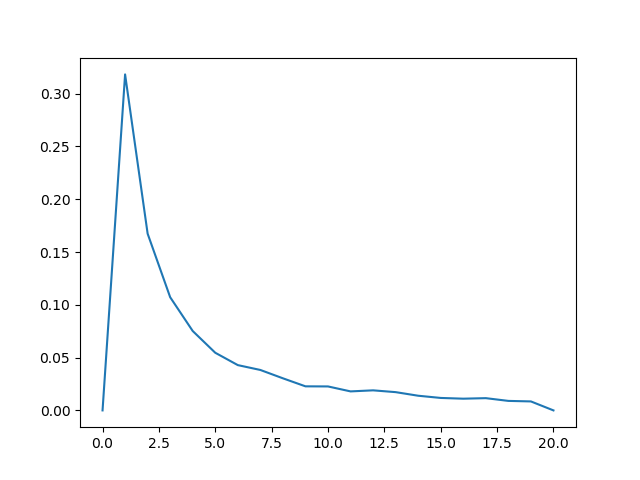
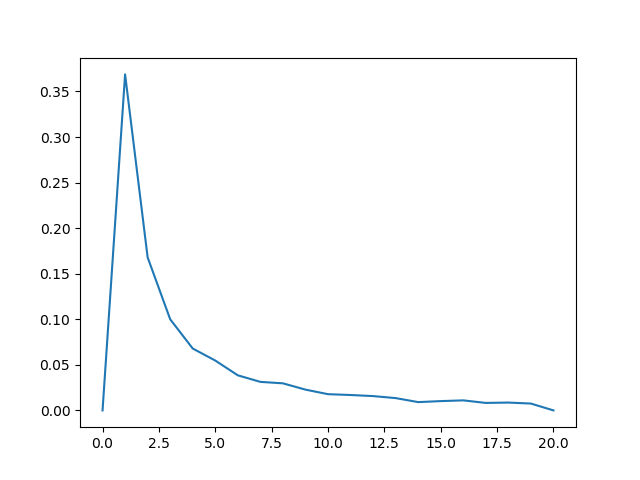
make LK

diff --git a/tsp/LK/LK.py b/tsp/LK/LK.py
@@ -16,6 +16,11 @@ set_l = 0
 y1 = 0
 y2 = 0
 
+o_length = 0
+sumInc = 0
+alpha = 5
+Bgn = [0] * alpha
+
 class Individual(object):
     def __init__(self,size):
         self.root = np.arange(size)
@@ -181,6 +186,88 @@ def levy(m,t,move):
         if(x <= move and x >= 1):
             return int(x)
 
+def LK(ind,size,dist):
+    global alpha
+    global o_length
+    global Bgn
+    global sumInc
+    i = 0
+    restricted = np.zeros(size,dtype = int)
+    copy_root = copy.deepcopy(np.insert(ind.root,len(ind.root),ind.root).tolist())
+    l_root = ind.root.tolist()
+    while(1):
+        if(i >= size):
+            break
+        i += 1
+        Bgn[0] = (Bgn[0] + 1) % size
+        ind.calc_root(dist)
+        o_length = ind.total_cost
+        sumInc = 0
+        if(i%100 == 0):
+            print("i0 = {0}; i = {1}: {2},\r".format(Bgn[0],i,o_length))
+
+        pathin = copy.deepcopy(copy_root[Bgn[0]:(Bgn[0]+size)])
+        if(improvedPath(pathin, size, 1, restricted, l_root, dist)):
+            i = 0
+        ind.root = np.array(l_root)
+
+def improvedPath(path, n, depth, restricted, pathout, dist):
+    global alpha
+    global o_length
+    global Bgn
+    global sumInc
+    gmin = (o_length * (-1)) / n / 4 if n >= 10000 else (o_length * (-1)) / n / 2 
+    if(depth < alpha):
+        for j in range(n):
+            i = (j + Bgn[depth]) % (n-1)
+            nid = path[i]
+            if(not restricted[nid]):
+                g = dist[path[i]][path[i+1]] - dist[path[n-1]][path[i]]
+                if(g > gmin):
+                    sumInc += dist[path[i+1]][path[0]] - dist[path[n-1]][path[0]] - g 
+                    path = Reverse(path,i+1,n-1)
+                    if(sumInc < 0):
+                        pathout[:] = path[:]
+                        print("{0}#{1},\t\t\t \r".format(depth,(o_length + sumInc)))
+                        return 1
+                    restricted[nid] = 1
+                    fimp = improvedPath(path, n, depth+1, restricted, pathout, dist)
+                    restricted[nid] = 0
+                    if(fimp):
+                        return 1
+            Bgn[depth] = (Bgn[depth] + 1) % (n-1)
+    else:
+        i = 0
+        g = -2147483648
+        for j in range(n-1):
+            h = dist[path[j]][path[j+1]] - dist[path[n-1]][path[j]]
+            if(h > g):
+                g = h
+                i = j
+        if(g > 0):
+            nid = path[i]
+            sumInc += dist[path[i+1]][path[0]] - dist[path[n-1]][path[0]] - g
+            path = Reverse(path,i+1,n-1)
+            if(sumInc < 0):
+                pathout[:] = path[:]
+                print("{0}${1},\r".format(depth,o_length + sumInc))
+                return 1
+            restricted[nid] = 1
+            fimp = improvedPath(path, n, depth+1, restricted, pathout, dist)
+            restricted[nid] = 0
+            if(fimp):
+                return 1
+    return 0
+
+def Reverse(path, b, e):
+    while(b < e):
+        tmp = path[b]
+        path[b] = path[e]
+        path[e] = tmp
+        b += 1
+        e -= 1
+    return path
+
 def main():
     start = time.time()
     start_p_m = 0.4       #突然変異率
@@ -190,7 +277,7 @@ def main():
     
     m_f = True #False ⇒ levy  True ⇒ GA
 
-    tsp_f = "att532"
+    tsp_f = "st70"
 
     input_f = r"C:\Users\imada\Desktop\Research\tsp\\" + tsp_f +".txt" 
     tsp_data = open(input_f,"r")
@@ -224,68 +311,8 @@ def main():
     c_score = min(w)
     prev_score = min(w)
     start_score = min(w)
-    
-    for g in range(NGEN):
-        g_start = time.time()
-        #if(g == 60000):
-            #m_f = not m_f
-        if(g % 20000 == 0):
-            p_m -= 0.05
-            p_ml -= 0.05
-            #if(g <= 60000):
-             #   p_m -= 0.05
-            #else:
-             #   p_ml -= 0.05
-        if(prev_score <= c_score):
-            e_count += 1
-            if(e_count == 2000):
-                m_f = not m_f
-                e_count = 0
-                start_score = prev_score
-        else:
-            prev_score = c_score
-            if(m_f and start_score > c_score):
-                m_f = not m_f
-            e_count = 0
 
-        print("-------第{0}世代-------".format(g))
-        for i in range(len(pop)):
-            w[i] = pop[i].total_cost
-
-        print("Max:{0}\nMin:{1}\nave:{2}\nBest root:{3}\ne_count:{4}".format(max(w),min(w),sum(w) / 100,pop[np.argmin(w)].root,e_count))
-        plot_data[g] = min(w)
-
-        pop = roulette_choice1(pop,w)
-        pop = cross(pop,size,p_c)
-        if(m_f):
-            pop = mutate(pop,size,p_m)
-        elif(not m_f):
-            pop = mutate_l(pop,size,p_ml,move)
-        calc_fit(pop,dist)
-        c_score = min(w)
-        g_end = time.time()
-        print("remaining time{0}".format((g_end - g_start) * (NGEN - g) / 3600))
-        #if(g % 1000 == 0):
-        #    p_m -= 0.01
-
-    print("-------第{0}世代-------".format(g + 1))
-    for i in range(len(pop)):
-        w[i] = pop[i].total_cost
-
-    print("Max:{0}\nMin:{1}\nBest root:{2}".format(max(w),min(w),pop[np.argmin(w)].root))
-    plot_data[g + 1] = min(w)
-    min_2 = str(min(w))
-    plt.plot(plot_x,plot_data)
-        
-    title = min_2
-    plt.title(title)
-    
-    output_f = r"C:\Users\imada\Desktop\Research\tsp\output\\" + tsp_f + "_{0}_{1}_{2}_{3}_{4}_{5}.png".format(NGEN,p_c,start_p_m,ind_num,move,m_f)
-    plt.savefig(output_f)
-    elapsed_time = (time.time() - start) / 3600 
-    print("elapsed_time:{0}".format(elapsed_time) + "[h]")
-
-    plt.show()
+    LK(pop[0],size,dist)
 
 if __name__ == '__main__':
     main()

diff --git a/tsp/levy_kopt.py b/tsp/levy_kopt.py
@@ -110,10 +110,10 @@ def mutate_l(pop, size, p_m,move):
     for mutant in pop:
         r = random.random()
         if(r < p_m):
-            for i in range(levy(0,0.5,10)):
+            for i in range(levy(0,0.5,10,1)):
                 while(1):
                     r1 = random.randint(0,size - 1)
-                    walk = levy(0,0.5,move)
+                    walk = levy(0,0.5,move,1)
                     if(r % 2 == 0):
                         r2 = r1 + walk
                     else:
@@ -121,8 +121,10 @@ def mutate_l(pop, size, p_m,move):
                     
                     if(r2 >= 0 and r2 <= size):
                         break
-                    
-                mutant.root[r1],mutant.root[r2] = mutant.root[r2],mutant.root[r1]
+
+                insert = mutant.root[r1]
+                mutant.root = np.delete(mutant.root,r1)
+                mutant.root = np.insert(mutant.root,r2,insert)
 
     return pop
 
@@ -130,13 +132,12 @@ def mutate(pop,size,p_m):
     for mutant in pop:
         r = random.random()
         if(r < p_m):
-            while(1):
-                r1 = random.randint(0,size - 1)
-                r2 = random.randint(0,size - 1)
-                if(r1 != r2):
-                    break
-
-            mutant.root[r1],mutant.root[r2] = mutant.root[r2],mutant.root[r1]
+            r1 = random.randint(0,size - 1)
+            r2 = random.randint(0,size - 1)
+            insert = mutant.root[r1]
+            mutant.root = np.delete(mutant.root,r1)
+            mutant.root = np.insert(mutant.root,r2,insert)
+            print()
 
     return pop
 
@@ -156,7 +157,7 @@ def init_cost(co):
 
     return c
 
-def levy(m,t,move):
+def levy(m,t,move,start):
     global set_l,y1,y2
     while(1):
         if(set_l == 0):
@@ -178,8 +179,11 @@ def levy(m,t,move):
             set_l = 0
 
         x = m + (t / np.square(y))
-        if(x <= move and x >= 1):
+        if(x <= move and x >= start):
             return int(x)
+
+def three_opt(ind,dist):
+
 
 def main():
     start = time.time()
@@ -190,7 +194,7 @@ def main():
     
     m_f = True #False ⇒ levy  True ⇒ GA
 
-    tsp_f = "att532"
+    tsp_f = "st70"
 
     input_f = r"C:\Users\imada\Desktop\Research\tsp\\" + tsp_f +".txt" 
     tsp_data = open(input_f,"r")

diff --git a/tsp/levy.py b/tsp/levy.py
@@ -9,16 +9,6 @@ import bisect
 import matplotlib.pyplot as plt
 sys.path.append('/usr/local/lib/python3.6/dist-packages')
 
-from datetime import datetime
-from joblib import Parallel,delayed
-from simanneal import Annealer
-from scoop import futures
-from deap import base
-from deap import creator
-from deap import tools
-from deap import cma
-from itertools import zip_longest
-
 def main():
     n = 20
     i = 0
@@ -44,7 +34,7 @@ def main():
             y = y2
             set_l = 0
 
-        rand = (1 / np.square(y))
+        rand = ((0.25) / np.square(y))
 
         if(rand <= 20 and rand >= 1):
             i += 1

diff --git a/tsp/LK/what.c b/tsp/LK/what.c
@@ -1,0 +1,5 @@
+#include <stdio.h>
+
+void doYouDo( const char* jobs ){
+printf( “Hello, I am %s.\n”, jobs );
+}
